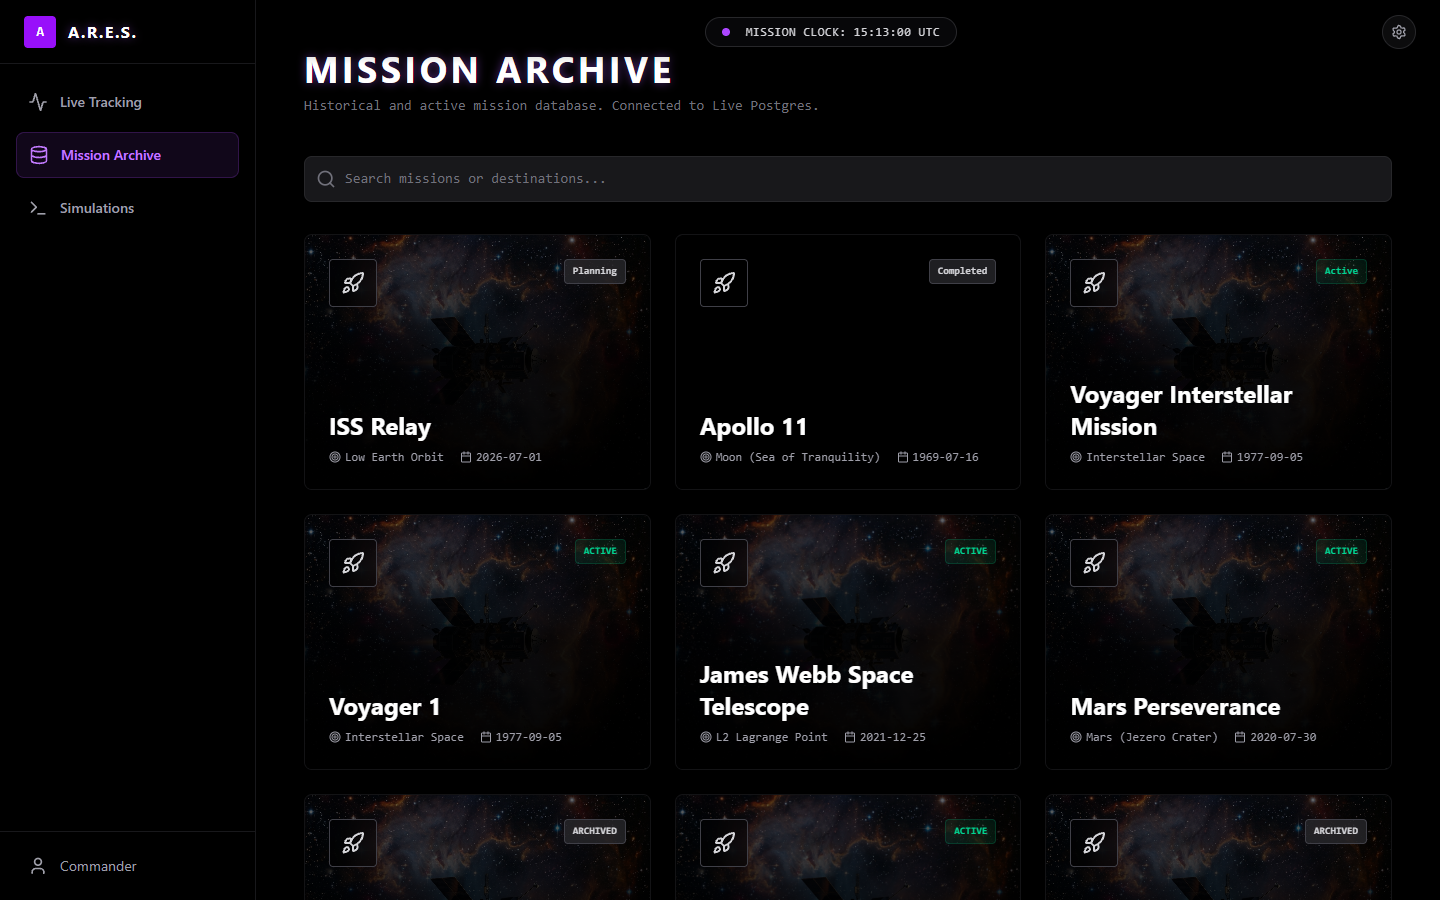
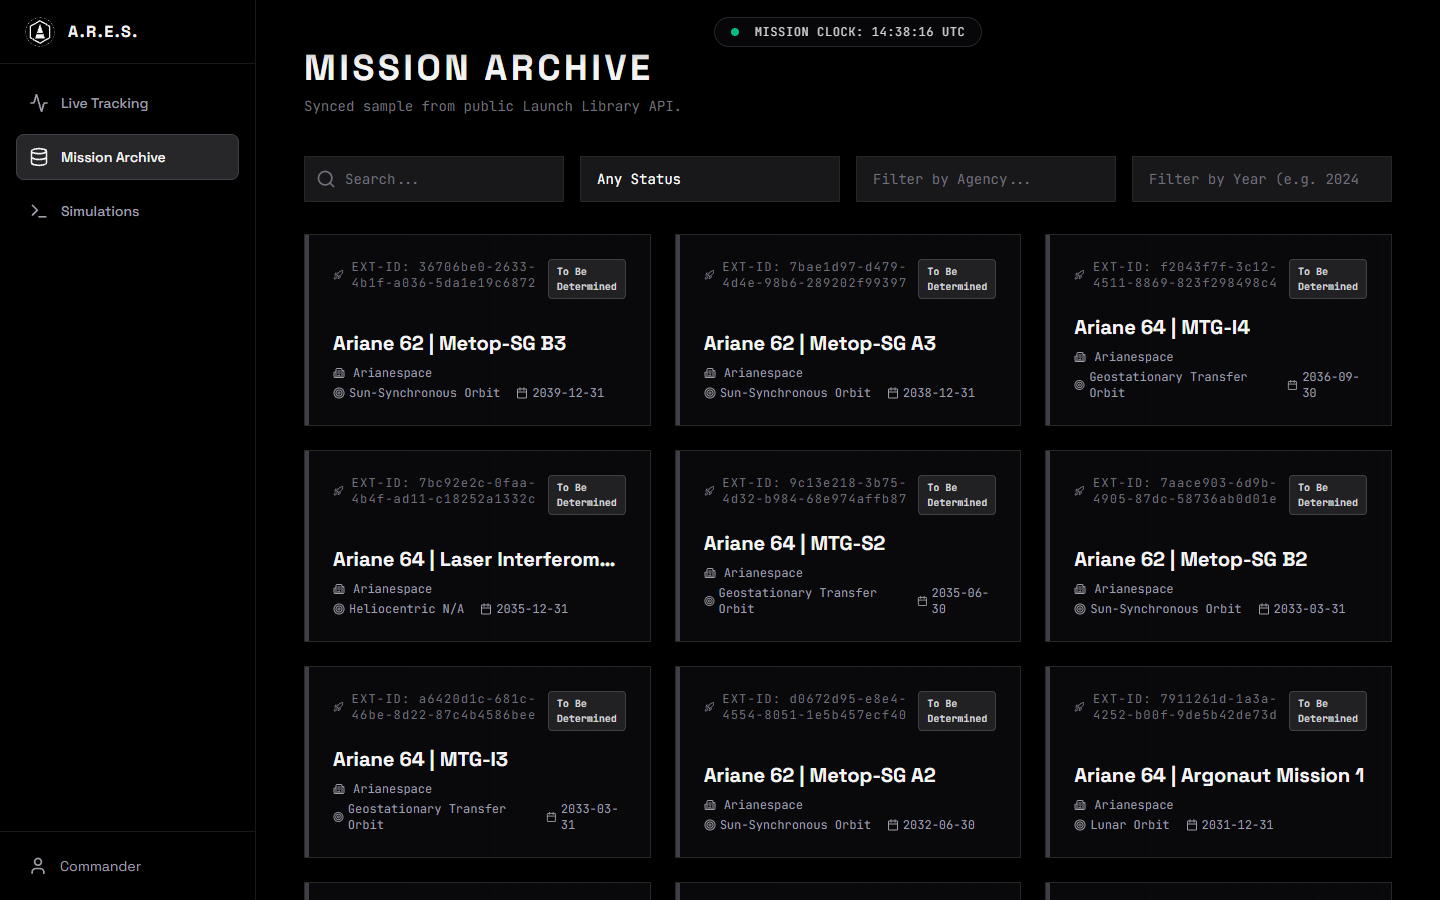
docs: add proof screenshots and design decisions

diff --git a/docs/DESIGN_DECISIONS.md b/docs/DESIGN_DECISIONS.md
@@ -1,0 +1,39 @@
+# A.R.E.S. Architecture & Design Decisions
+
+*This document outlines the core engineering trade-offs and architectural decisions made while building the A.R.E.S. Telemetry System.*
+
+## 1. The Core Problem & Data Flow
+**The Problem:** Traditional REST APIs that perform direct CRUD (Create, Read, Update, Delete) database operations work well for most apps, but they collapse under high-frequency writes. If a satellite streams hundreds of telemetry metrics per second, doing an `INSERT` statement for every metric causes database lock contention and massive performance degradation.
+
+**The Solution (Data Flow):**
+1. **Stream:** Clients stream high-frequency data to a FastAPI endpoint.
+2. **Buffer:** Instead of writing to Postgres, FastAPI pushes the data directly into a **Redis List** (`telemetry_buffer`) using an O(1) append operation. 
+3. **Flush:** An administrator securely triggers a "flush". FastAPI pulls everything out of Redis and executes an **optimized bulk insert** into Postgres in a single transaction.
+
+*Why this architecture:* It demonstrates a scalable decoupling layer frequently used in production systems to mitigate database locking under extreme write loads.
+
+## 2. Why Redis?
+- **Speed & In-Memory:** Redis stores data in RAM, making it incredibly fast for rapid appends (O(1) time complexity for lists).
+- **Rate Limiting & Caching:** We also use Redis to cache the expensive AI reports (saving API credits) and to enforce strict IP-based rate limiting on the public endpoints.
+
+## 3. Why Postgres?
+- **Durability & Relational Integrity:** While Redis is great for volatile, high-speed data, Postgres provides ACID compliance.
+- **Relational Schema:** Our Mission Archive is highly relational. A `Mission` belongs to a `Spacecraft`, which belongs to an `Agency`, and has a crew of `Scientists`. Postgres enforces these foreign keys and handles complex cascade deletes seamlessly.
+
+## 4. Why JWT (JSON Web Tokens)?
+- **Stateless Auth:** We use JWT to protect admin-only endpoints (like flushing the buffer or modifying mission data). Because JWTs are stateless, the backend doesn't need to look up a session in the database for every request.
+- **Role-Based Access Control:** The token contains claims that verify the user is an authorized commander, keeping public endpoints (like viewing the archive) open while locking down mutations.
+
+## 5. What Do The CI/Tests Check?
+- **Pytest:** The backend has a robust test suite that validates:
+  - Database queries and advanced filters (Search, Status, Agency, Year).
+  - The JWT authentication layer (ensuring protected endpoints return `401 Unauthorized` without a token).
+  - Buffer state monitoring and correct parsing of simulated JSON data during flushes.
+  - Compilation integrity of helper scripts (like `import_missions.py`).
+- *Impact:* This proves the system is not only functionally complete but also operationally resilient against regressions.
+
+## 6. Known Limitations & Roadmap
+As the system evolves, the following architectural upgrades are recommended:
+1. **Alembic Migrations:** Currently, schema changes require dropping the tables. Adding Alembic would allow for stateful database evolution (useful for CI/CD).
+2. **Frontend Code-Splitting:** The 3D React Globe and Three.js bundle is heavy. Lazy loading those components would drastically improve the initial Time-to-Interactive (TTI).
+3. **Scalable Stream Processing:** Replacing the simple Redis List with Redis Streams (or Kafka) for consumer-group fanout if we had multiple backend workers processing the telemetry simultaneously.

diff --git a/README.md b/README.md
@@ -11,9 +11,10 @@
 ![Three.js](https://img.shields.io/badge/Three.js-000000?style=for-the-badge&logo=threedotjs&logoColor=white)
 
 ### A.R.E.S. In Action
-![Live Tracking](docs/screenshot_live_tracking.png)
 ![Mission Archive](docs/screenshot_mission_archive.png)
+![Mission Modal](docs/screenshot_mission_modal.png)
 ![Telemetry Console](docs/screenshot_telemetry_console.png)
+
 ---
 
 ## Table of Contents
@@ -38,6 +39,18 @@ Standard web applications rely on direct CRUD operations — a client sends data
 **A.R.E.S.** was built to solve this problem. Instead of hammering PostgreSQL with rapid inserts, telemetry is captured instantly in an in-memory **Redis** buffer (O(1) writes) and later flushed to **PostgreSQL** via optimized bulk inserts. This dual-tier architecture is the same pattern used in production systems at companies handling real-time data at scale.
 
 Beyond the engineering pipeline, A.R.E.S. is designed as an **all-in-one space exploration hub** — a platform where users can browse a realistic searchable sample of historical and active missions, track live satellites in real-time on an interactive map, and leverage AI to generate diagnostic reports from raw orbital mechanics.
+
+---
+
+## Engineering Summary
+
+If you are exploring this repository to understand its technical foundations, keep the following core engineering concepts in mind:
+
+- *"A.R.E.S. is a FastAPI and React full-stack telemetry system."*
+- *"The core engineering problem it solves is high-frequency database writes."*
+- *"Instead of bottlenecking a relational database, Redis absorbs data bursts in memory, then FastAPI bulk-flushes the records to Postgres."*
+- *"The Mission Archive is a public-facing dataset backed by real synced Launch Library data."*
+- *"Admin-only endpoints protect mutations and the telemetry flushing pipeline, using JWT."*
 
 ---
 
@@ -328,6 +341,24 @@ Building A.R.E.S. taught me patterns that go beyond typical tutorial projects:
 - **AI prompt engineering**: Crafting specific, structured prompts for Gemini to produce consistent, actionable output — not generic chatbot responses.
 - **Separation of concerns**: Refactoring a monolithic 350-line file into modular FastAPI routers with shared services and clean dependency injection.
 - **Dual-tier data architecture**: Understanding when to use Redis (speed, volatility) vs PostgreSQL (durability, relationships) and how they complement each other.
+
+---
+
+## Current Limits
+
+To maintain a focused and highly performant demonstration, the system deliberately accepts the following constraints:
+- **Mission Sync**: The archive sync is capped to 150 records for demo speed.
+- **Live Tracking**: Real-time orbital visualization currently focuses specifically on the ISS.
+- **Deployment**: The Docker deployment is designed as a local-first environment.
+- **AI Analytics**: AI diagnostic reports depend on the external Google Gemini API availability.
+
+---
+
+## Roadmap / Future Enhancements
+
+- **[Issue #1] Add Alembic migrations for schema evolution**: Implement database migrations so the schema can be upgraded seamlessly without dropping tables.
+- **[Issue #2] Code-split frontend globe bundle**: Optimize the initial React load time by lazy-loading the heavy Three.js / Globe visualization components.
+- **[Issue #3] Extend live tracking beyond ISS**: Integrate N2YO or similar APIs to track additional active satellites in orbit.
 
 ---
 
